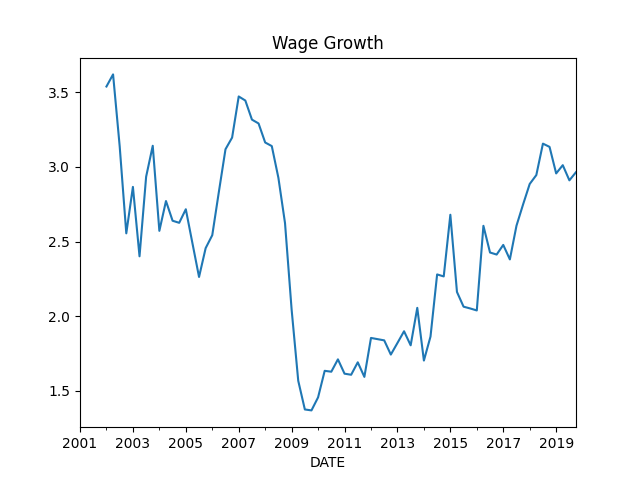
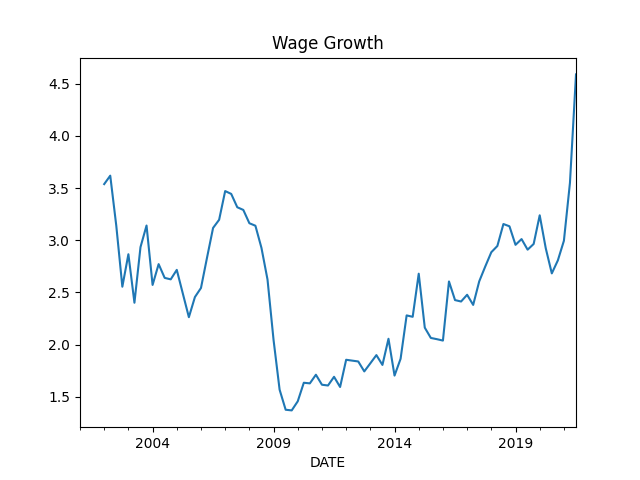
-

diff --git a/en/2019/05/stats.md b/en/2019/05/stats.md
@@ -21,11 +21,11 @@ print (df['growann'].tail(5))
 
 ```text
 DATE
-2020-04-01   -31.235698
-2020-07-01    33.783279
-2020-10-01     4.536294
-2021-01-01     6.278177
-2021-04-01     6.726283
+2020-10-01    4.536294
+2021-01-01    6.278177
+2021-04-01    6.726283
+2021-07-01    2.303426
+2021-10-01    6.887441
 Name: growann, dtype: float64
 ```
 
@@ -71,12 +71,12 @@ plt.savefig('cycle.png')
 ```text
                gdpyoy
 DATE                 
-2020-04-01  -9.083737
 2020-07-01  -2.887506
 2020-10-01  -2.262915
 2021-01-01   0.546977
 2021-04-01  12.226677
 2021-07-01   4.946556
+2021-10-01   5.531736
                  inf
 DATE                
 2021-07-01  5.365475
@@ -195,6 +195,8 @@ Name: JTSQUR, dtype: float64
 
 ![](quits.png)
 
+<a name="wages"></a>
+
 Wages
 
 ```python
@@ -202,7 +204,8 @@ import pandas as pd, datetime
 from pandas_datareader import data
 
 start=datetime.datetime(1950, 1, 1)
-end=datetime.datetime(2019, 11, 1)
+today = datetime.datetime.now()
+end=datetime.datetime(today.year, today.month, today.day)
 cols = ['ECIWAG']
 df3 = data.DataReader(cols, 'fred', start, end)
 df3 = df3.dropna()
@@ -215,10 +218,10 @@ plt.savefig('wages.png')
 
 ```text
 DATE
-2019-01-01    2.956785
-2019-04-01    3.012048
-2019-07-01    2.910448
-2019-10-01    2.965159
+2020-10-01    2.807775
+2021-01-01    2.995720
+2021-04-01    3.551136
+2021-07-01    4.590395
 Name: wagegrowth, dtype: float64
 ```
 
